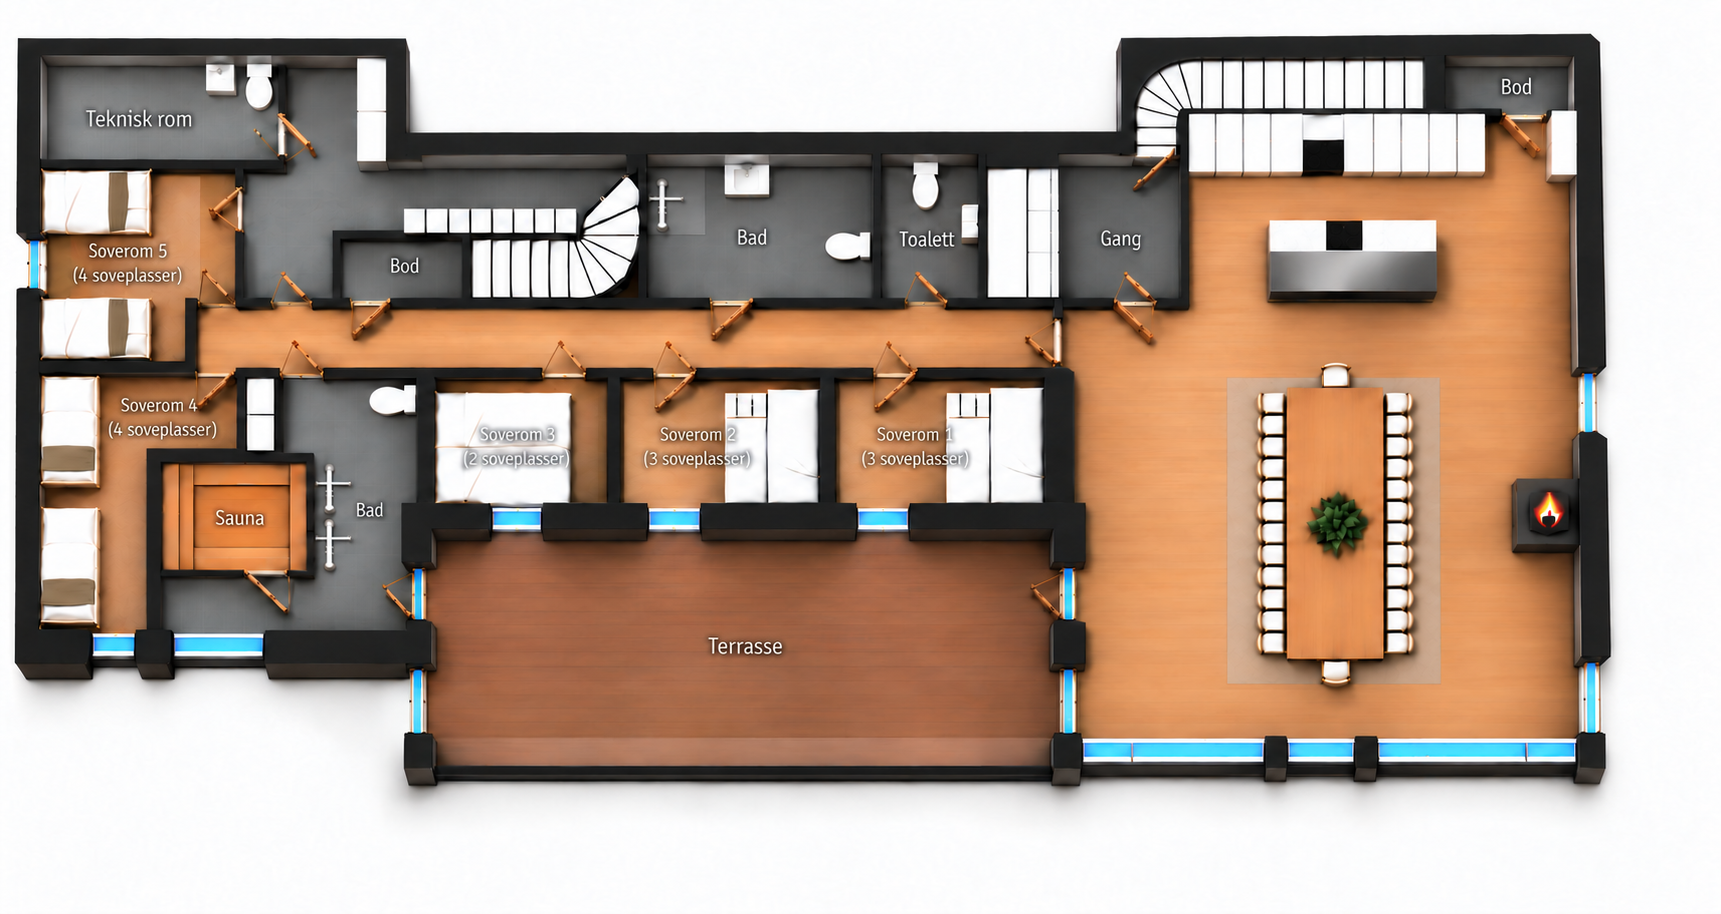
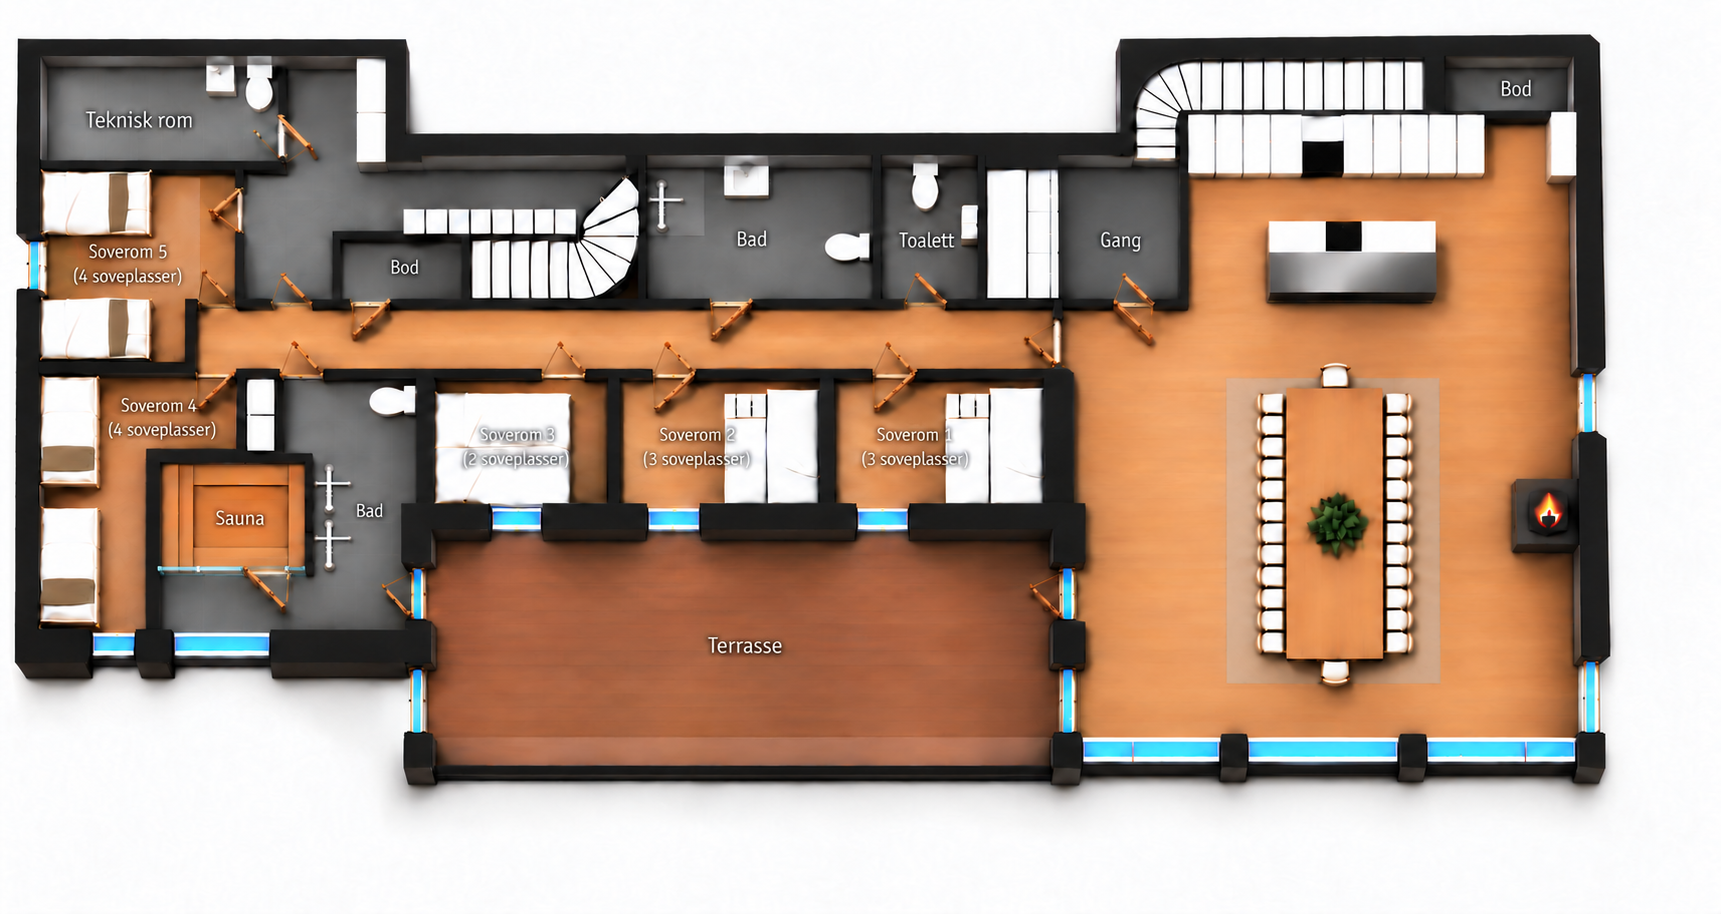
Widen centre glazing and update lower-floor doors and sauna glass

diff --git a/docs/floor-plans.md b/docs/floor-plans.md
@@ -1,5 +1,34 @@
 # Three floor plans
 
+## Wider centre window, two removed doors and sauna glass front, 30 October 2026
+
+Owner requested a wider middle front window, removal of two marked door leaves (hallway beside rear stairs and top-right storage), clear glazing across the sauna's front partition, and a slightly wider exterior bathroom window below it. Door passages remain open; other doors remain. The middle front glazing was enlarged by moving its two slim piers apart symmetrically. Sauna front is now shown as glass with an entry panel. Both language drawings visually checked, retaining rooms, sleeping counts and26diningchairs.
+
+Built-in imagegen edit mode. Final assets:
+- `public/images/floor-plan-lower.png`: `exec-5c23bdac-27d5-48dc-832a-e639e053c628.png`.
+- `public/images/floor-plan-lower-en.png`: `exec-5a59cd26-dcf0-46b6-adb6-153f6de34e3f.png`.
+
+Exact first-pass prompts:
+
+### wideMiddleDoors-nbPrompt
+
+```text
+Use case: precise-object-edit. Image1 full lower-floor plan is EDIT TARGET. Image2 marks the center front window to WIDEN. Image3 marks EXACTLY TWO doors to REMOVE. Make ONLY these corrections: (A) Right dining-module bottom/front facade has3windowgroups. Widen CENTER glass span fromaround65px toabout120px in1721pxcanvas (roughlydouble), centered on facadecenteraroundx1328. Shift the2slimdarkinternalpiers outward equally, about25pxeach, retaining their thickness. Shorten outerglazingspans equally tokeepwholefacadebounds fixed: targetleft/rightglasswidthsabout160pxeach,centralabout120px. Keep THREEgroups symmetrical andslimframes unchanged, no enlargementofroom/walls/canvas. (B) Remove doorleaf AND swingarc/hingehardware of the small orange angled door at the HALLWAY'S UPPER RIGHT beside the rear staircase (aroundx1140,y165). Leave the opening/passageto stairs clear; preservehallwaywallandstaircase. (C) Remove doorleaf AND swingarc/hingehardware of orange angled door into top-right Bod/Storage (aroundx1520,y135), exactlyasredcircleinImage3. Leave storageentrance open, storage walls/cabinets/labelunchanged. Removeonlythese2doors; ALLotherdoorsMUSTremain, includingHallway'sLOWERdoor into diningroom. Preserveallothercontent: currentfootprint,slimwalls,rooms,bedroom4matchingbedWIDTHS,allbeds,kitchen,island,fireplace,26diningchairs(12eachlongside+1eachend),table,stairs,otherwindows,materials,labelsverbatiminoriginallanguage,font/size,canvas/framing. No redmarks,crop,zoom,resize,newobjects orclosingdooropeningswithwalls. Keep Norwegian labels exactly.
+```
+
+### wideMiddleDoors-enPrompt
+
+```text
+Use case: precise-object-edit. Image1 full lower-floor plan is EDIT TARGET. Image2 marks the center front window to WIDEN. Image3 marks EXACTLY TWO doors to REMOVE. Make ONLY these corrections: (A) Right dining-module bottom/front facade has3windowgroups. Widen CENTER glass span fromaround65px toabout120px in1721pxcanvas (roughlydouble), centered on facadecenteraroundx1328. Shift the2slimdarkinternalpiers outward equally, about25pxeach, retaining their thickness. Shorten outerglazingspans equally tokeepwholefacadebounds fixed: targetleft/rightglasswidthsabout160pxeach,centralabout120px. Keep THREEgroups symmetrical andslimframes unchanged, no enlargementofroom/walls/canvas. (B) Remove doorleaf AND swingarc/hingehardware of the small orange angled door at the HALLWAY'S UPPER RIGHT beside the rear staircase (aroundx1140,y165). Leave the opening/passageto stairs clear; preservehallwaywallandstaircase. (C) Remove doorleaf AND swingarc/hingehardware of orange angled door into top-right Bod/Storage (aroundx1520,y135), exactlyasredcircleinImage3. Leave storageentrance open, storage walls/cabinets/labelunchanged. Removeonlythese2doors; ALLotherdoorsMUSTremain, includingHallway'sLOWERdoor into diningroom. Preserveallothercontent: currentfootprint,slimwalls,rooms,bedroom4matchingbedWIDTHS,allbeds,kitchen,island,fireplace,26diningchairs(12eachlongside+1eachend),table,stairs,otherwindows,materials,labelsverbatiminoriginallanguage,font/size,canvas/framing. No redmarks,crop,zoom,resize,newobjects orclosingdooropeningswithwalls. Keep English labels exactly; reference images must not introduce Norwegian labels.
+```
+
+Exact sauna/window follow-up prompt (with `Keep Norwegian labels unchanged.` / `Keep English labels unchanged.` appended respectively):
+
+```text
+Use case: precise-object-edit. Image1 full lower-floor plan is EDIT TARGET. Image2 shows red circles marking SAUNA FRONT GLASS WALL and the BATHROOM EXTERIOR WINDOW BELOW IT. Make ONLY these2small changes. (1) Replace the opaque horizontal FRONT/BOTTOM sauna partition (aroundx162–311,y573 in1721pxwidefullplan) with a CLEAR GLASS WALL across that same fullwidth. Render a thin pale bluegrey transparent glass edge with subtle fittings, visibly glass ratherthan thickblackwall. Preserve sauna's rear/sidewalls,woodbenches,labelandfootprint. Existing doorway in this frontpartition should become a glassdoor in the glasswall, keepingitsopening/swinglocation, thin transparentpanelandminimalframe ratherthan wood. Do not remove the sauna enclosure or invent a newroom. (2) Widen the single horizontal BATHROOM FRONT WINDOW directly below sauna (currentaroundx174–265,y644), byabout20percent, centeredinsameposition: targetspanapproximatelyx165–274, samewindowdepthandframe design. Shorten adjoiningwallsegments a little; do NOT change neighboring small bedroom4window atfarleft or terrace doors. Preserve ALL other content EXACTLY, particularly alreadyWIDERcenterfrontwindowinrightdiningmodule, THREEfrontglassgroups, TWOalreadyREMOVEDdoors(byrearstairsandtoprightstorage)withopenpassages, lowerhallwaydoorstillpresent, allotherdoors,slimwalls,currentrightmodulewidth,bedroom4equalbedwidths,all5bedroomscounts,26diningchairs(12eachside+1eachend),table,kitchen,island,fireplace,labelsverbatiminoriginallanguagefont/size,stairs,materials,fullcanvas/framing. No redmarks,crop,globalresize ornewobjects. Only sauna frontglasspartition/door and slightlywiderbathwindow.
+```
+
+
 ## Main-floor facade alignment and equal bedroom4 bed widths, 30 October 2026
 
 The owner's close-up establishes THREE front window groups (wide–narrow–wide), superseding the earlier mistaken four-group interpretation. Lower-floor right living/dining module is slightly wider, with symmetric outer glazing spans, slimmer window-frame depth and narrower dark piers. Oversized square white post caps removed; overall wall weights brought closer to the main-floor reference. Upper bed in bedroom4 widened to match the lower bed. Rooms, sleeping counts and26tablechairs retained. English labels translated from the selected Norwegian drawing so both use the same corrected geometry.
